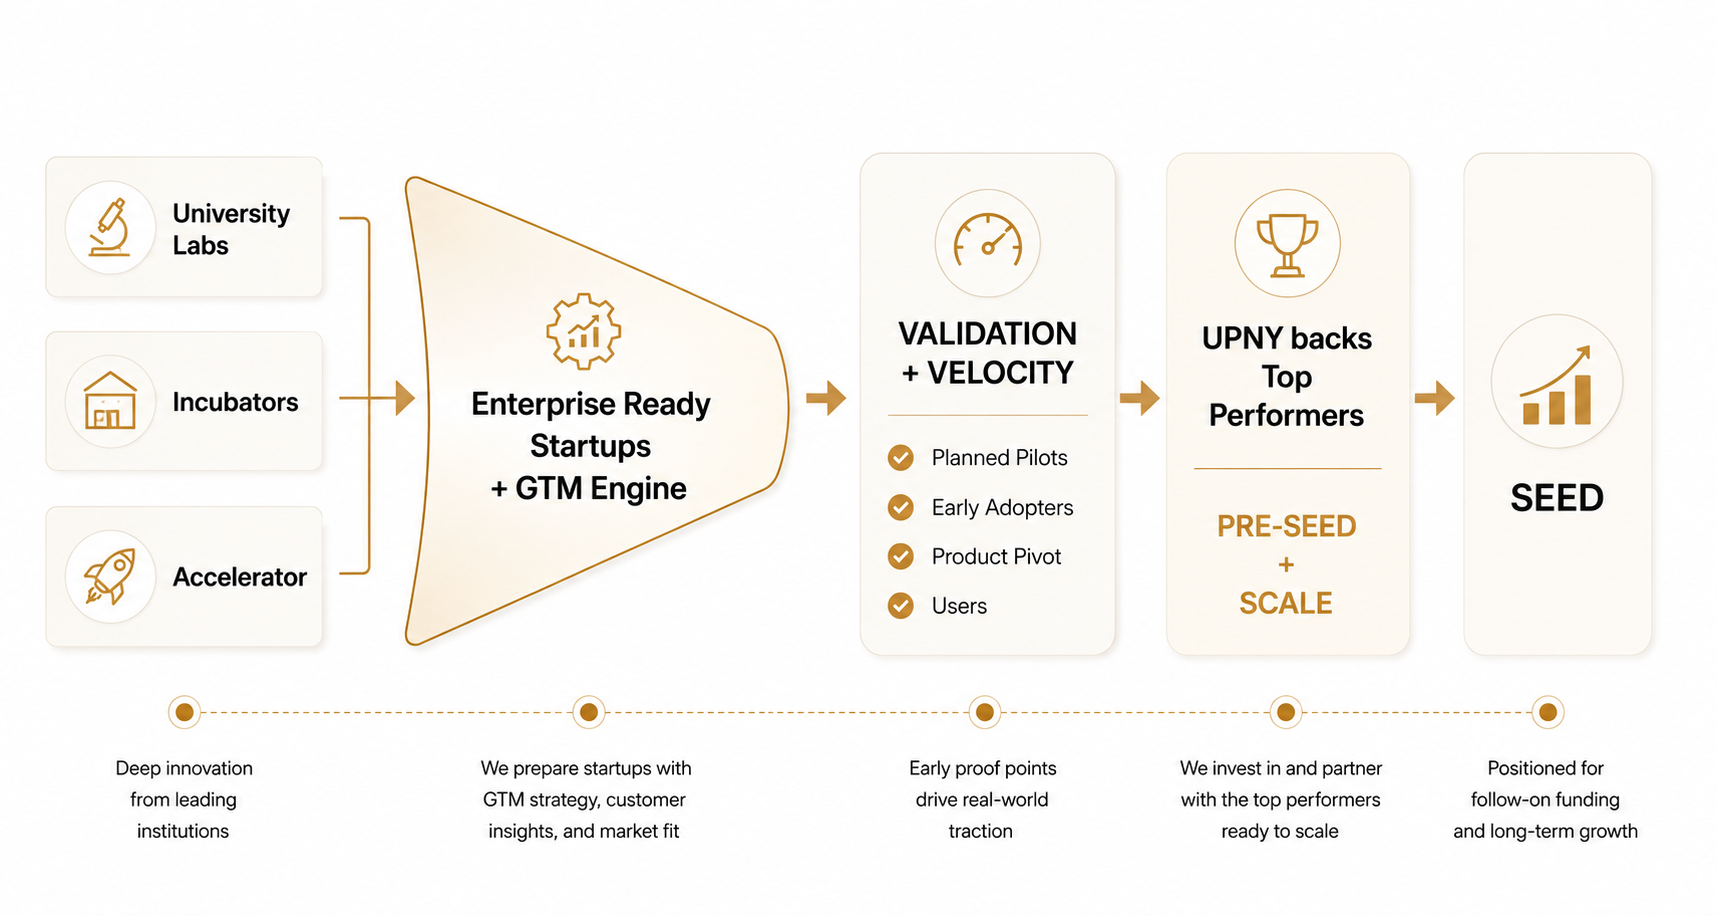
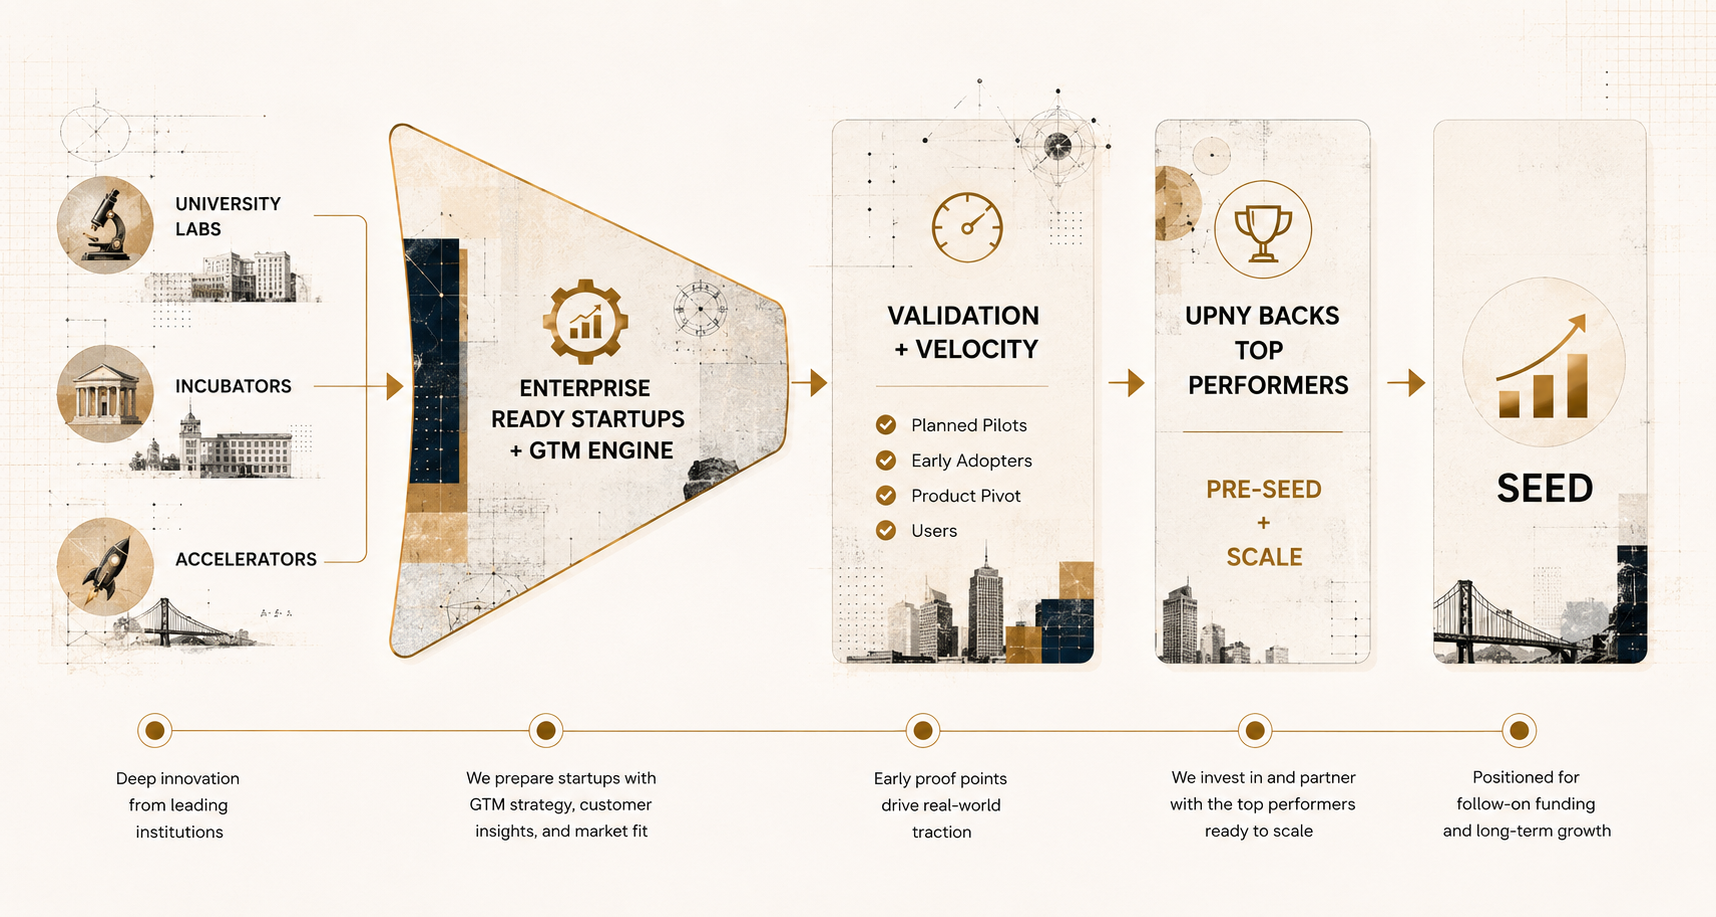
Update funnel graphic and bust its cache
Refreshes the Engine section funnel image with the latest version and
adds a version query string so browsers don't serve a stale cached
copy under the same filename.

diff --git a/index.html b/index.html
@@ -1312,7 +1312,7 @@
         <p class="disclaimer">Investment in UPNY Ventures Fund I is available to accredited investors only, as defined under SEC Rule 501(a). This is not an offer to sell or a solicitation of an offer to buy securities.</p>
       </div>
       <div class="invest-cols" style="display: block;">
-        <img src="assets/funnel.png" alt="From innovation to impact: university labs, incubators, and accelerators feed into UPNY's GTM engine, validation and velocity, top performers backed by UPNY, through to seed." style="width: 100%; height: auto; display: block; border-radius: 10px;" />
+        <img src="assets/funnel.png?v=2" alt="From innovation to impact: university labs, incubators, and accelerators feed into UPNY's GTM engine, validation and velocity, top performers backed by UPNY, through to seed." style="width: 100%; height: auto; display: block; border-radius: 10px;" />
       </div>
     </div>
   </section>
